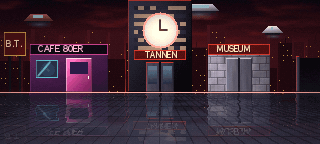
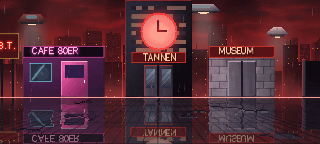
Kapitel 5: alle acht Hintergründe von 2015 mit Higgsfield neu gezeichnet
Die alten Bilder dienten als Vorlage für die Anordnung, die Bilder von 1955
als Stilvorlage: kalte Nacht, Regen und rotes Neon unter Tannen. Die geheilten
Fassungen von Museum und Turmplatz sind Abwandlungen der neuen Bilder und
liegen deckungsgleich darauf. Klickflächen, Ausgänge und Effekte passen ohne
Änderung.

diff --git a/tools/paint/build.ts b/tools/paint/build.ts
@@ -112,6 +112,8 @@ const EIGENE_BILDER = new Set(['titel', 'martys_zimmer_1986', 'kueche_1986', 'ar
   'uhrwerk_1955', 'rathausplatz_1955', 'docs_labor_1955', 'cafe_1955', 'radioladen_1955', 'schule_flur_1955', 'strasse_1955', 'stadtplan_1955',
   // Hintergründe 1885, mit Higgsfield neu gezeichnet
   'abstellgleis_1885', 'festplatz_1885', 'mietstall_1885', 'saloon_1885', 'schmiede_1885', 'stadtplan_1885', 'uhrwerk_1885',
+  // Hintergründe 2015, mit Higgsfield neu gezeichnet
+  'lobby_2015', 'buero_2015', 'cafe80er_2015', 'gasse_2015', 'museum_2015', 'museum_2015_geheilt', 'turmplatz_2015', 'turmplatz_2015_geheilt',
   // Gegenstände
   'foto_stufe0', 'foto_stufe1', 'foto_stufe2', 'foto_stufe3', 'foto_stufe4', 'kugelschreiber', 'skateboard', 'skateboard_wand',
   'banane', 'bananenschale', 'x_mikrowelle', 'diktiergeraet',
